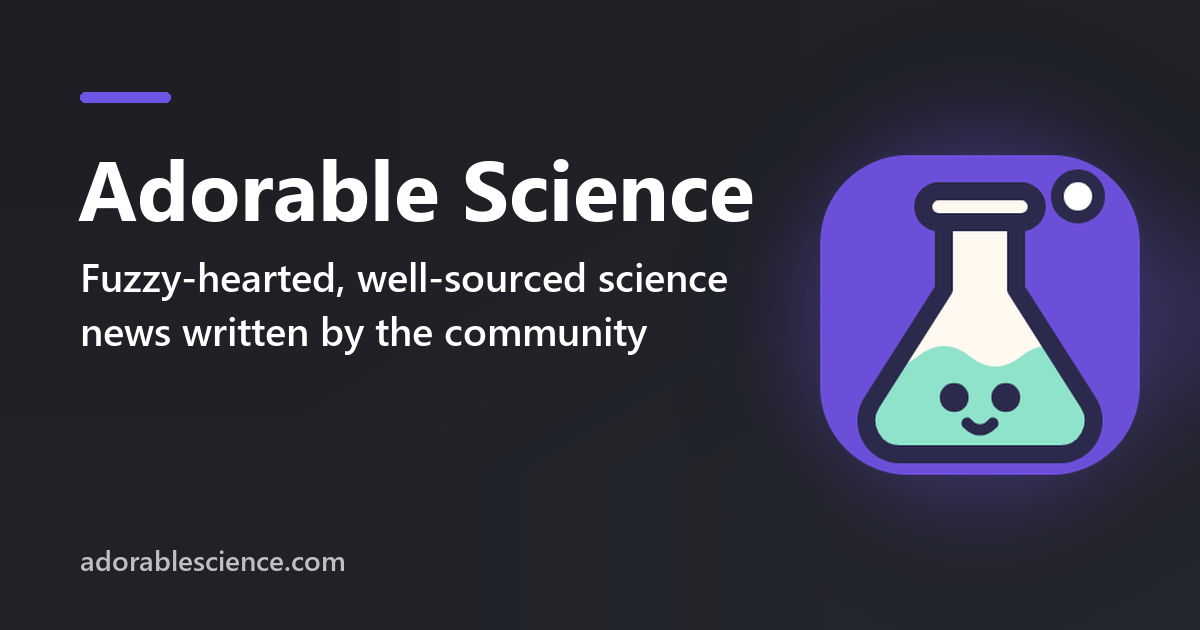
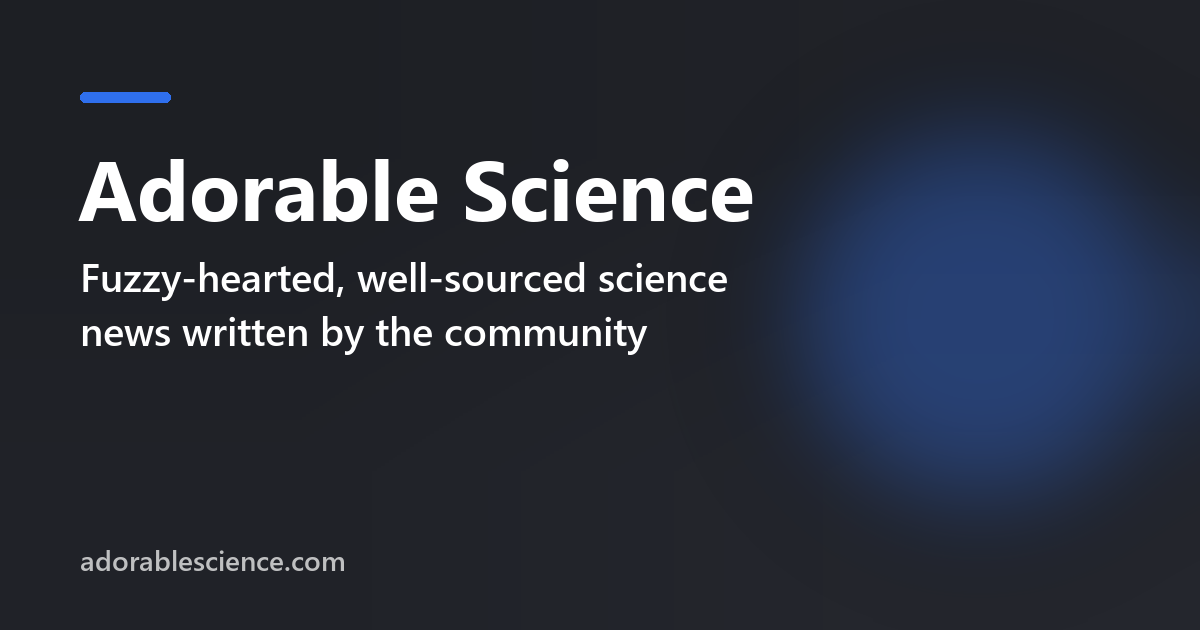
SEO: valid schema.org fields (availableLanguage on ServiceChannel, no browserRequirements on games)

Changed region(s): [[0.6783, 0.2413, 0.9558, 0.754], [0.0617, 0.1206, 0.1542, 0.181]]

diff --git a/server_code/seo_routes.py b/server_code/seo_routes.py
@@ -59,11 +59,11 @@ SEO = {
  ],
  "site": "https://adorablescience.com",
  "updated": "2026-11-09",
- "icon": "favicon.png",
+ "icon": "icon-512.png",
  "colors": {
   "bg": "#1d1f24",
   "ink": "#ffffff",
-  "brand": "#6c54e4",
+  "brand": "#2f6fed",
   "on": "#ffffff"
  }
 }
@@ -147,18 +147,25 @@ def _ld(o):
         app["serviceType"] = s.get("service_type", s.get("tagline", s["title"]))
         app["provider"] = {"@id": "https://arkvital.com/#org"}
         app["areaServed"] = "Worldwide"
-        app["availableChannel"] = {"@type": "ServiceChannel", "serviceUrl": o + "/", "name": "Web browser"}
+        # availableLanguage belongs on the channel (schema.org has no Service.availableLanguage)
+        app["availableChannel"] = {"@type": "ServiceChannel", "serviceUrl": o + "/", "name": "Web browser",
+                                   "availableLanguage": s.get("lang", "en")}
         del app["inLanguage"], app["publisher"], app["keywords"]
-        app["availableLanguage"] = s.get("lang", "en")
+    if app["@type"] == "ProfessionalService":
+        # an Organization: knowsLanguage, not inLanguage (a CreativeWork field)
+        app["knowsLanguage"] = app.pop("inLanguage")
+        del app["publisher"]
     if app["@type"] in ("WebApplication", "VideoGame"):
         app["applicationCategory"] = s.get("category", "WebApplication")
         app["operatingSystem"] = "Any (web browser)"
+    if app["@type"] == "WebApplication":
         app["browserRequirements"] = "Requires JavaScript and a modern web browser"
+    if app["@type"] in ("WebApplication", "VideoGame"):
         if s.get("features"):
             app["featureList"] = s["features"]
     if s.get("free"):
         app["offers"] = {"@type": "Offer", "price": "0", "priceCurrency": "CAD"}
-    if s.get("audience"):
+    if s.get("audience") and app["@type"] != "ProfessionalService":
         app["audience"] = {"@type": "Audience", "audienceType": s["audience"]}
     page = {"@type": "AboutPage", "@id": o + "/about#page", "url": o + "/about", "name": "About " + s["name"],
             "about": {"@id": o + "/#app"}, "isPartOf": {"@id": o + "/#site"}}
